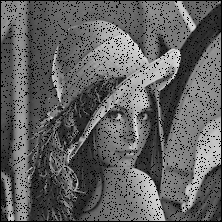
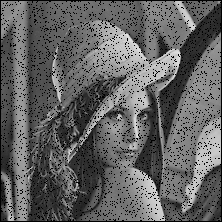
gaussian

Changed region(s): [[0.0, 0.0, 1.0, 1.0]]

diff --git a/Task1/main.py b/Task1/main.py
@@ -56,8 +56,8 @@ class ApplicationWindow(QtWidgets.QMainWindow):
         img_noisy[cleanPixels_ind] = img[cleanPixels_ind]
         img_noisy[pepper] = 0
         img_noisy[salt] = 1
-        cv2.imwrite(r"./images/noise.png", img_noisy)
-        self.ui.outputTab1.setPixmap(QPixmap(r"./images/noise.png"))
+        cv2.imwrite(r"D:\CV\RepFotTeam\CV\Task1\images\noise.png", img_noisy)
+        self.ui.outputTab1.setPixmap(QPixmap(r"D:\CV\RepFotTeam\CV\Task1\images\noise.png"))
         return (img_noisy)
 
     def chooseFilter(self):
@@ -140,7 +140,7 @@ class ApplicationWindow(QtWidgets.QMainWindow):
         R,C = img.shape
         for i in range(R-n//2):
             for j in range(C-n//2):
-                mask = np.average(img[i:i+5,i:i+5])
+                mask = np.average(img[i:i+n,i:i+n])
                 newImg[i,j] = self.maxIntensity if mask >= self.Th else self.minIntensity
         cv2.imwrite(r"./images/LocalThresholding.png", eq_img_array)
         self.ui.outputTab1.setPixmap(QPixmap(r"./images/LocalThresholding.png"))
@@ -161,17 +161,26 @@ class ApplicationWindow(QtWidgets.QMainWindow):
         self.freqFilter(self.grayImg,"a")
     def HighFreqFilter(self):
         self.freqFilter(self.grayImg, "p")
+    
     def gaussianFilter(self,img):
-        sigma =1
-        FilteredImage = np.zeros(img.shape)
-        for i in range(self.R):
-            for j in range(self.C):
-                FilteredImage[i,j] =1 / (sigma * np.sqrt(2*np.pi)) * np.exp(-float(img[i,j])**2/(2*sigma**2))
-        print(FilteredImage)
-        cv2.imwrite(r"./images/GaussianFilter.png",FilteredImage)
-        self.ui.outputTab1.setPixmap(QPixmap(r"./images/GaussianFilter.png"))
-        return (FilteredImage)
+        n = 3
+        sigma = 1
+        kernel = self.gaussian_kernel(n, sigma)
+        filteredImg = np.zeros((self.R,self.C))
+        for i in range(self.R-n//2):
+            for j in range(self.C-n//2):
+                    window = img[i : i + n, j : j + n]
+                    filteredImg[i,j] = np.sum(window*kernel)
+        cv2.imwrite(r"D:\CV\RepFotTeam\CV\Task1\images\GaussianFilter.png",filteredImg)
+        self.ui.outputTab1.setPixmap(QPixmap(r"D:\CV\RepFotTeam\CV\Task1.\images\GaussianFilter.png"))
+        return filteredImg
 
+    def gaussian_kernel(self,k_size, sigma):
+        center = k_size // 2
+        x, y = np.mgrid[0 - center : k_size - center, 0 - center : k_size - center ]
+        g = 1 / (2 * np.pi * sigma) * np.exp(-(np.square(x) + np.square(y)) / (2 * np.square(sigma)))
+        return g
+    
     def medianFilter(self,img,n):
         R,C = img.shape
         FilteredImage = np.zeros((R+n-1,C+n-1))
@@ -196,13 +205,14 @@ class ApplicationWindow(QtWidgets.QMainWindow):
 
     def AvgFilter(self,img,n):
         R,C = img.shape
-        mask = np.ones((3,3),np.float32)/9
-        FilteredImage = np.zeros((R+n-1,C+n-1))
-        for i in range(1,R-2):
-            for j in range(1,C-2):
-                    FilteredImage[i+1,j+1] = np.sum(np.multiply(mask,img[i:i+n,j:j+n]))
-        cv2.imwrite(r"./images/AvgFilter.png",FilteredImage)
-        self.ui.outputTab1.setPixmap(QPixmap(r"./images/AvgFilter.png"))
+        n = 3
+        mask = np.ones((n,n),np.float32)/(n*n)
+        FilteredImage = np.zeros((self.R,self.C))
+        for i in range(self.R-n//2):
+            for j in range(self.C-n//2):
+                    FilteredImage[i,j] = np.sum(np.multiply(mask,img[i:i+n,j:j+n]))
+        cv2.imwrite(r"D:\CV\RepFotTeam\CV\Task1\images\AvgFilter.png",FilteredImage)
+        self.ui.outputTab1.setPixmap(QPixmap(r"D:\CV\RepFotTeam\CV\Task1\images\AvgFilter.png"))
         return (FilteredImage)
 
     def highFilter(self,img,n,maskX,maskY,file):
